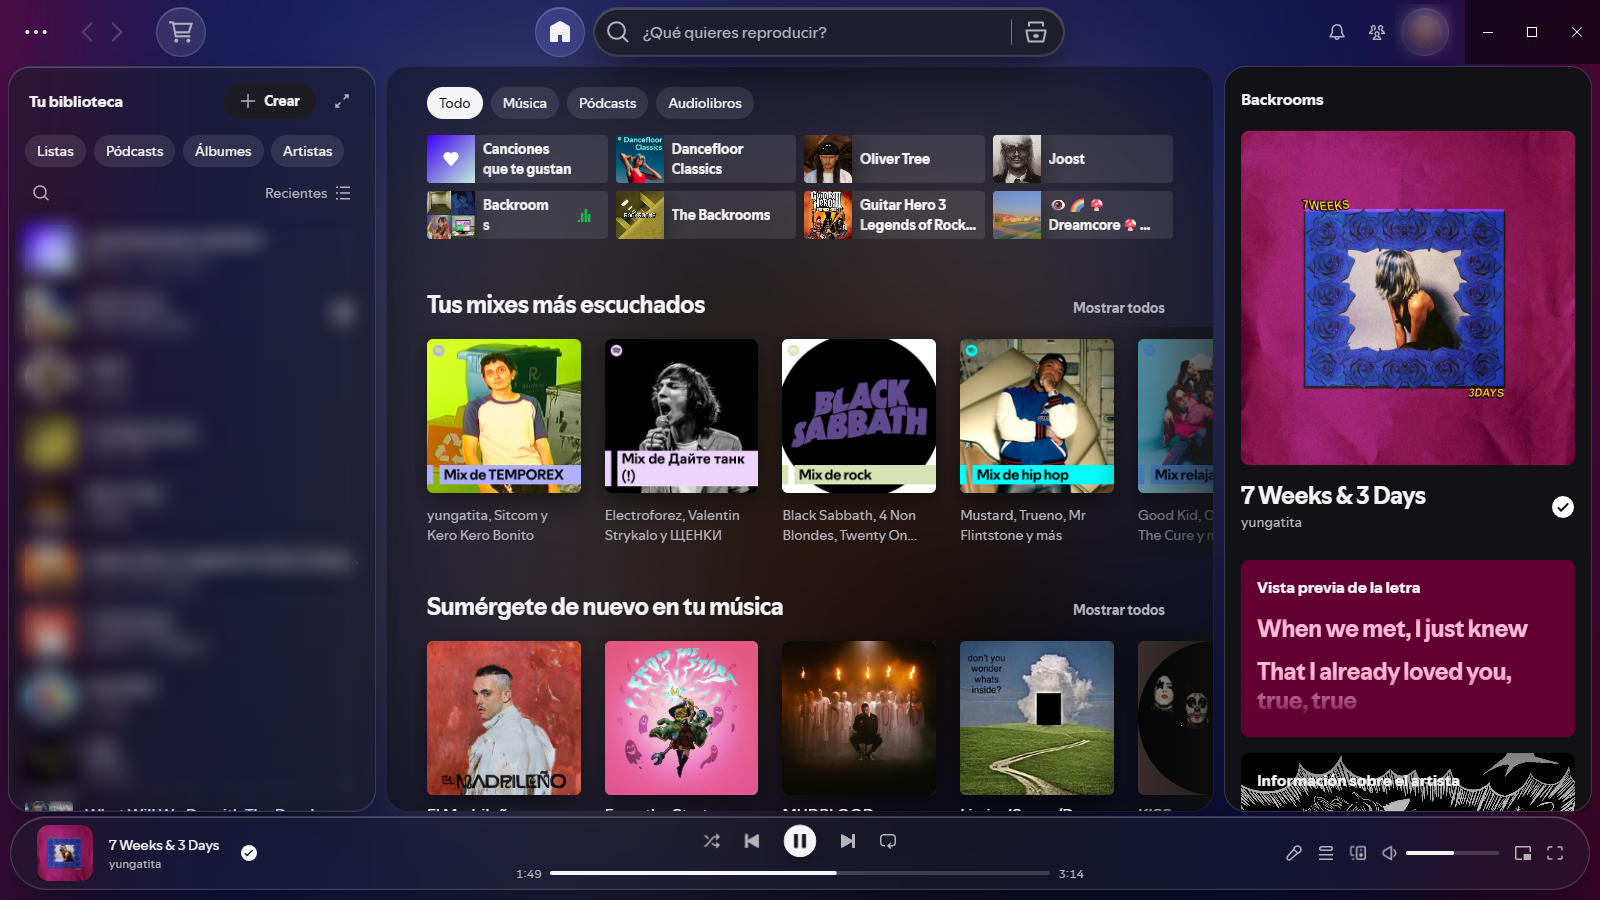
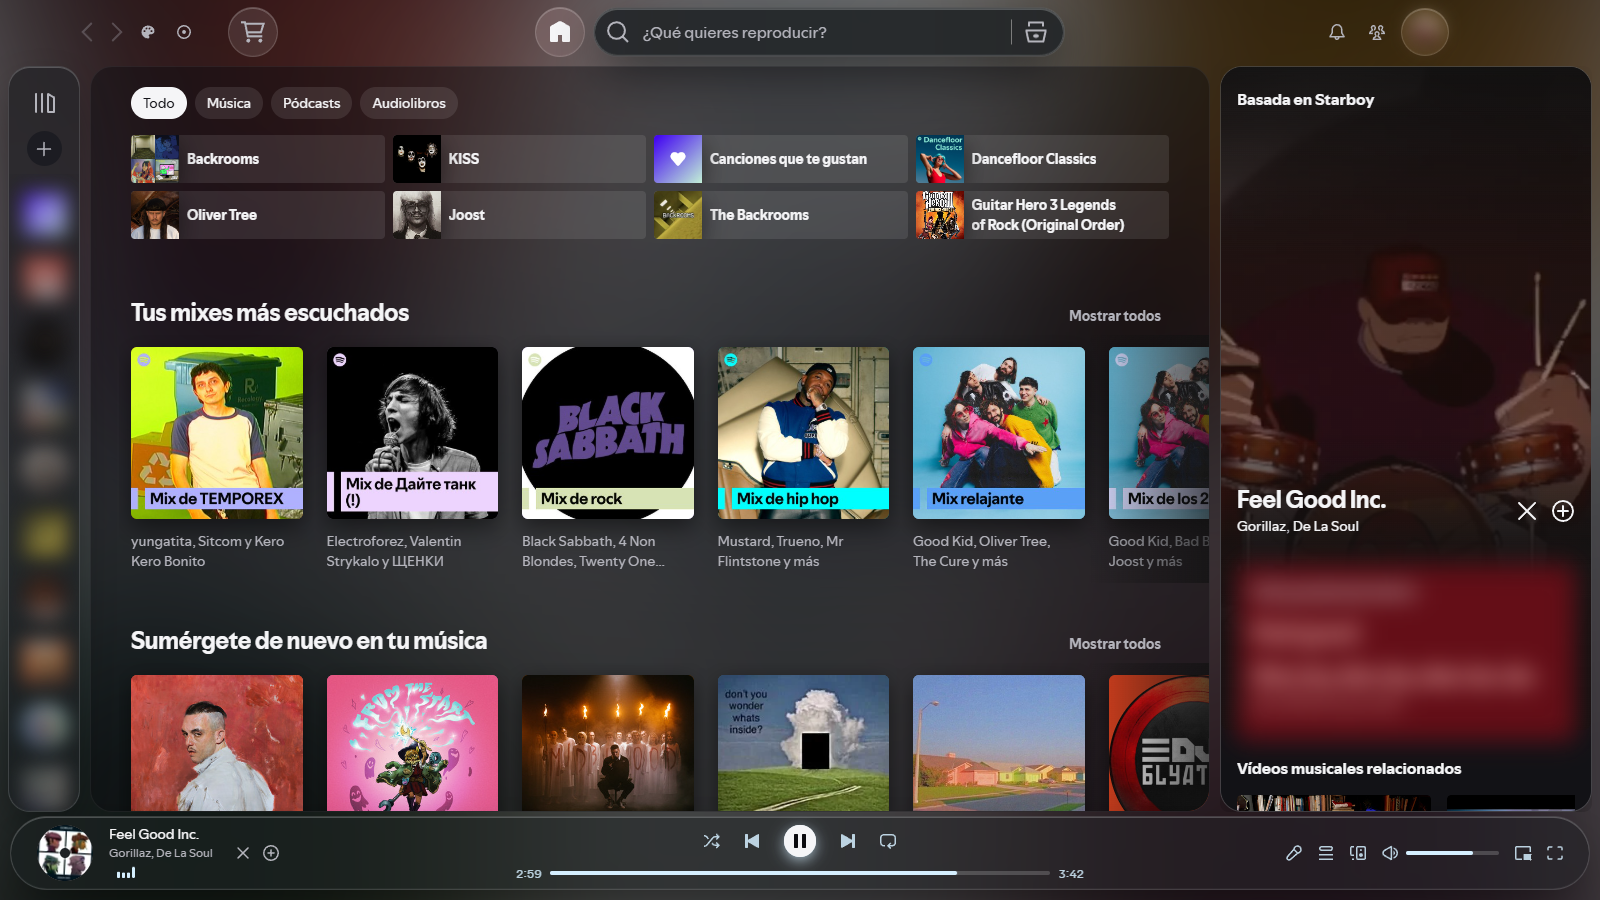
Capturas nuevas en el README y botón de play con el color de la portada
- preview.png nueva y galería en el README: reproductor con cuatro
  colores, portada en disco, modo escaparate y panel de ajustes.
  Biblioteca, foto de perfil y letras reales fuera de las capturas.
- El círculo del botón de play es un span interior de Spotify con su
  propio fondo; ahora también lleva el acento.
- publicar.ps1 vacía también la caché de las capturas.

diff --git a/user.css b/user.css
@@ -293,6 +293,13 @@ body {
   transition: background-color 0.8s var(--aura-ease), box-shadow 0.8s var(--aura-ease);
 }
 
+/* Spotify pinta el círculo con un <span> interior: también lleva el acento */
+.Root__now-playing-bar [data-testid="control-button-playpause"] > span {
+  background: var(--aura-accent) !important;
+  color: #0B0B0F !important;
+  transition: background-color 0.8s var(--aura-ease);
+}
+
 .Root__now-playing-bar [data-testid="control-button-playpause"] svg {
   fill: #0B0B0F !important;
 }

diff --git a/README.md b/README.md
@@ -17,6 +17,32 @@ Aura Glass es un tema para [Spicetify](https://spicetify.app) inspirado en el Li
 - **No se come tu ordenador.** Las animaciones se paran cuando Spotify está en segundo plano, y el modo "Bajo consumo" reduce el desenfoque y quita las animaciones.
 - **Accesible.** Respeta "reducir transparencia", "más contraste" y "reducir movimiento" de tu sistema, y todo el panel y el escaparate se manejan con teclado.
 
+## Así se ve
+
+### El reproductor se tiñe con cada portada
+
+Botones, tiempos, barra de progreso, volumen y el botón de play cambian de color con la portada que suena. Aquí, el mismo reproductor con cuatro colores distintos:
+
+![Reproductor con cuatro colores](capturas/colores.png)
+
+### La portada es un disco que gira
+
+Redonda, con el agujero central de un vinilo. Gira mientras suena y se para al pausar.
+
+![Portada en forma de disco](capturas/disco.png)
+
+### Modo escaparate (`Alt + S`)
+
+Pantalla completa con la portada, el vinilo girando, el reloj y la letra sincronizada: lo que ya sonó se atenúa, el verso actual brilla y lo que viene espera desenfocado.
+
+![Modo escaparate](capturas/escaparate.png)
+
+### Panel de ajustes
+
+Color del cristal, desenfoque, opacidad, redondeo, brillo, efectos y temporizador de apagado. Sin tocar código.
+
+![Panel de ajustes](capturas/ajustes.png)
+
 ## Instalación
 
 ### Desde el Marketplace (recomendado)
